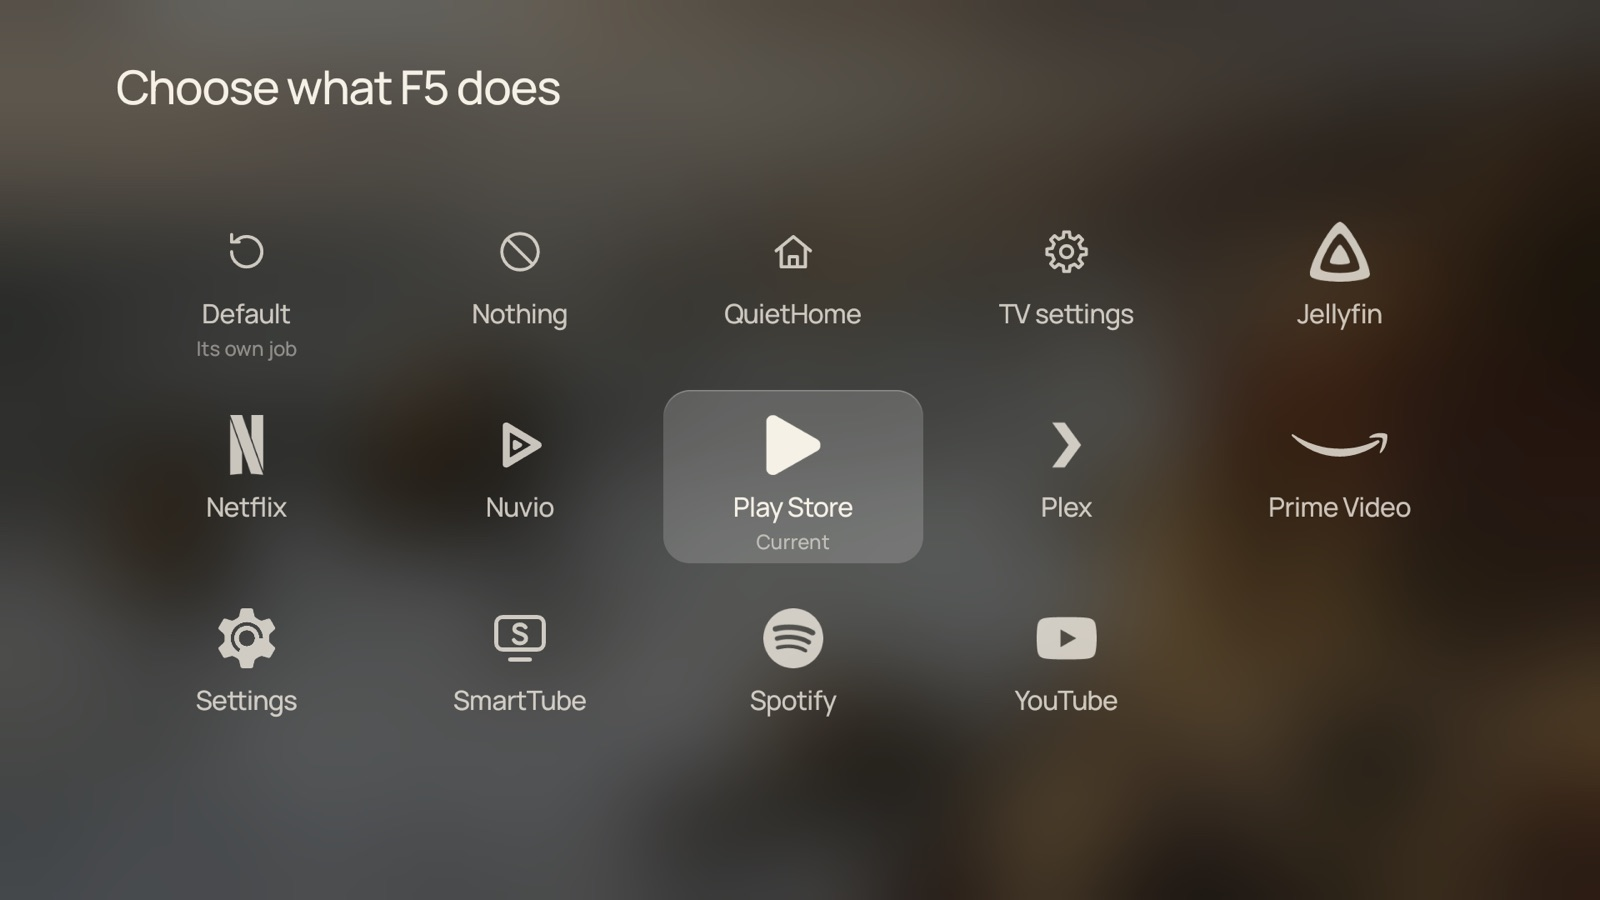
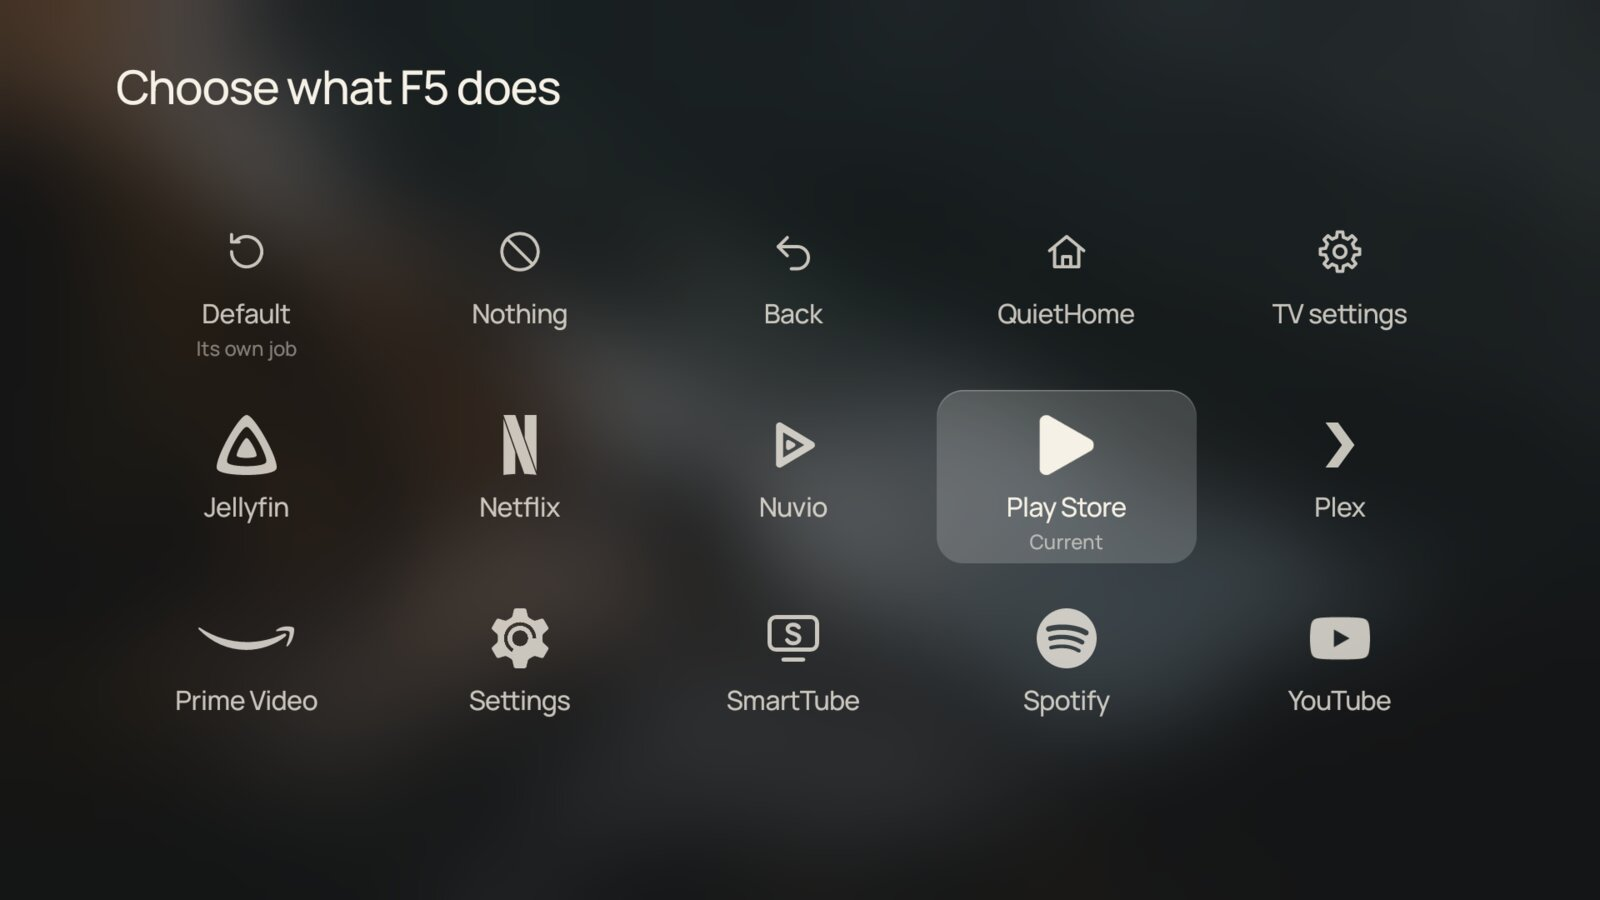
Button mapping: a button can do Back, with the system Back action of the QuietHome service

diff --git a/src/io/github/fballiano/quiethome/SettingsScreen.java b/src/io/github/fballiano/quiethome/SettingsScreen.java
@@ -221,7 +221,8 @@ final class SettingsScreen extends Screen {
                 int code = b.getKey();
                 Catalog.Entry target = stage.catalog.get(b.getValue());
                 String opens = target == null ? b.getValue() : Catalog.title(target);
-                String does = Catalog.ACTION_NONE.equals(b.getValue()) ? text(R.string.does_nothing) : text(R.string.opens, opens);
+                String does = Catalog.ACTION_NONE.equals(b.getValue()) ? text(R.string.does_nothing)
+                    : Catalog.ACTION_BACK.equals(b.getValue()) ? text(R.string.goes_back) : text(R.string.opens, opens);
                 rows.add(link(RemoteButtons.name(stage.getContext(), code), () -> does, () -> pick(code)));
             }
             Row add = action(text(R.string.add_a_button), () -> text(R.string.add_a_button_note),
@@ -272,6 +273,7 @@ final class SettingsScreen extends Screen {
             Catalog.Entry e = stage.catalog.get(id);
             stage.toast(free ? text(R.string.button_default_again, name)
                 : Catalog.ACTION_NONE.equals(id) ? text(R.string.button_does_nothing, name)
+                : Catalog.ACTION_BACK.equals(id) ? text(R.string.button_goes_back, name)
                 : text(R.string.button_opens, name, e == null ? id : Catalog.title(e)));
         }, text(R.string.choose_what_button_does, name), lead, current == null ? Catalog.ACTION_DEFAULT : current);
         stage.open(picker[0]);

diff --git a/src/io/github/fballiano/quiethome/RemoteButtons.java b/src/io/github/fballiano/quiethome/RemoteButtons.java
@@ -22,7 +22,7 @@ import java.util.Set;
 /**
  * The QuietHome service. An accessibility service that filters key events receives each key
  * before the system and the app in front, so it can give a remote button (for example a Netflix
- * key) a new job, turn it off, or make Home open QuietHome. Keys without a mapping pass through.
+ * key) a new job, make it work as Back, turn it off, or make Home open QuietHome. Keys without a mapping pass through.
  * It also receives the window-changed event, only to see when a stock launcher's home screen
  * comes back (after a wake from standby, for example) and to show QuietHome instead. It cannot
  * read the screen.
@@ -126,6 +126,10 @@ public final class RemoteButtons extends AccessibilityService {
         String target = mapping.get(code);
         if (target == null) return false;
         taken.put(code, true);
+        if (Catalog.ACTION_BACK.equals(target)) {
+            if (!performGlobalAction(GLOBAL_ACTION_BACK)) Log.w(Home.TAG, name(this, code) + " → Back: refused");
+            return true;
+        }
         if (Catalog.isHdmi(target) && catalog.get(target) == null) catalog.load();
         String problem = catalog.launch(target);
         if (problem != null) Log.w(Home.TAG, name(this, code) + " → " + target + ": " + problem);

diff --git a/src/io/github/fballiano/quiethome/Catalog.java b/src/io/github/fballiano/quiethome/Catalog.java
@@ -63,6 +63,8 @@ final class Catalog {
 
     /** Things a mapped button can do besides opening an app or an input. */
     static final String ACTION_NONE = "action.none", ACTION_HOME = "action.home", ACTION_SETTINGS = "action.settings";
+    /** The system Back, for the app in front. Only the QuietHome service can do it. */
+    static final String ACTION_BACK = "action.back";
     /** Picker tiles only, never saved: a button's own job, and the Apps on Home editor. */
     static final String ACTION_DEFAULT = "action.default", ACTION_EDIT = "action.edit";
 
@@ -84,6 +86,7 @@ final class Catalog {
     List<Entry> actions() {
         List<Entry> out = new ArrayList<>();
         out.add(new Entry(ACTION_NONE, context.getString(R.string.nothing), null, null));
+        out.add(new Entry(ACTION_BACK, context.getString(R.string.back), null, null));
         out.add(new Entry(ACTION_HOME, context.getString(R.string.app_name), null, null));
         out.add(new Entry(ACTION_SETTINGS, context.getString(R.string.tv_settings), null, null));
         return out;

diff --git a/src/io/github/fballiano/quiethome/Stage.java b/src/io/github/fballiano/quiethome/Stage.java
@@ -286,6 +286,7 @@ final class Stage extends View {
         if (Catalog.isAction(e.id)) {
             int mark = Catalog.ACTION_HOME.equals(e.id) ? R.drawable.icon_home
                 : Catalog.ACTION_SETTINGS.equals(e.id) ? R.drawable.icon_tvsettings
+                : Catalog.ACTION_BACK.equals(e.id) ? R.drawable.icon_back
                 : Catalog.ACTION_DEFAULT.equals(e.id) ? R.drawable.icon_default
                 : Catalog.ACTION_EDIT.equals(e.id) ? R.drawable.icon_edit : R.drawable.icon_none;
             float size = Math.min(w, h) * 0.8f;

diff --git a/tools/svg2vector.py b/tools/svg2vector.py
@@ -22,7 +22,7 @@ NS = "{http://www.w3.org/2000/svg}"
 ICONS = ["primevideo", "youtube", "netflix", "jellyfin", "twitch", "appletv", "stremio",
          "spotify", "hbomax", "tubi", "plex", "nuvio", "smarttube", "kodi", "vlc", "emby", "crunchyroll",
          "paramountplus", "dazn", "mubi", "steamlink", "youtubemusic", "youtubekids", "tidal", "deezer",
-         "console", "apps", "settings", "tvsettings", "home", "edit", "default"]
+         "console", "apps", "settings", "tvsettings", "home", "edit", "default", "back"]
 
 
 def num(value):

diff --git a/README.md b/README.md
@@ -40,7 +40,7 @@ QuietHome is inspired by [CleanFrame](https://github.com/nthnclrk/CleanFrame), a
 - **Updates.** Settings shows the installed version under its title. Settings → Update QuietHome looks for a newer release on GitHub. If there is one, it downloads it, checks it, and starts the installation. Android asks you to confirm. The first time, Android asks you to let QuietHome install apps. After the update, QuietHome opens again.
 - **The QuietHome service.** An accessibility service that gives QuietHome the features below. If it is off, QuietHome shows how to turn it on.
   - **Home button.** Home always opens QuietHome, also on TVs that keep their own launcher (for example Google TV). When the stock launcher comes back by itself, for example after the TV wakes from standby, QuietHome replaces it at once. Settings → Android TV → Previous launcher still lets you visit it.
-  - **Button mapping.** Press a remote button, for example the Netflix key, and choose what it does: open an app or an HDMI input, open QuietHome or TV settings, or nothing. You do not need a separate button mapper app.
+  - **Button mapping.** Press a remote button, for example the Netflix key, and choose what it does: open an app or an HDMI input, open QuietHome or TV settings, go back, or nothing. You do not need a separate button mapper app.
   - **When the TV turns on.** For a TV that only shows a box (for example an Nvidia Shield) on one HDMI port: QuietHome opens that input at boot and each time the TV wakes. It can also open an app. Home still shows QuietHome.
 - **Network only for updates.** QuietHome connects to the network only when you select Settings → Update QuietHome, and only to GitHub. It never checks in the background. It has no accounts, no analytics and no ads.
 
@@ -227,9 +227,9 @@ On most Android TV and Google TV devices, the stock launcher is a system app wit
 2. Select **Add a button**. Press the remote button, then choose what it does.
 3. To change a mapping, select the button in the list. To remove it, choose **Default**: the button then does its own job again.
 
-![Choosing what a button does: Default, Nothing, QuietHome, TV settings, or an app](docs/images/picker.jpg)
+![Choosing what a button does: Default, Nothing, Back, QuietHome, TV settings, or an app](docs/images/picker.jpg)
 
-You cannot map these keys: arrows, OK, Back, Home, volume, mute and power. They always keep their usual job.
+You cannot map these keys: arrows, OK, Back, Home, volume, mute and power. They always keep their usual job. To get a second Back button, map a different button to **Back**. It then does the same as the Back button.
 
 Android lets an accessibility service see key presses. QuietHome acts only on Home and on the buttons that you map. All other keys pass through. The service also gets one event, "window changed", which gives the package name of the app in front. QuietHome uses it only to see when the stock launcher's home screen comes back. The service cannot read the screen, and it stores and sends nothing.
 
@@ -268,7 +268,7 @@ adb shell "am broadcast -n io.github.fballiano.quiethome/.Config --es config '{
 | `startOn` | A package name or HDMI input id to open when the TV turns on; `""` shows Home |
 | `home` | A list of up to nine package names or input ids |
 | `inputNames` | Input id to name. An empty name restores the TV's name. |
-| `buttons` | Android keycode to a package name, an input id, `action.none`, `action.home` or `action.settings`. An empty value removes the mapping. |
+| `buttons` | Android keycode to a package name, an input id, `action.none`, `action.back`, `action.home` or `action.settings`. An empty value removes the mapping. |
 
 HDMI input ids look like `hdmi:HW5`. To see them, send an empty configuration (`--es config '{}'`), then run `adb logcat -d -s QuietHome | grep 'HDMI input'`.
 

diff --git a/THIRD_PARTY_NOTICES.md b/THIRD_PARTY_NOTICES.md
@@ -43,7 +43,7 @@ The SVG sources are in `tools/icons/`. `tools/icons/SOURCES.md` lists the source
 | Material | Terms |
 | --- | --- |
 | [Simple Icons](https://simpleicons.org) marks (Prime Video, YouTube, Netflix, Jellyfin, Twitch, Apple TV, Stremio, Spotify, HBO Max, Tubi, Kodi, VLC, Emby, Crunchyroll, Paramount+, DAZN, MUBI, Steam, YouTube Music, YouTube Kids, Tidal, Deezer) | CC0. See `tools/icons/SIMPLE-ICONS-LICENSE.txt`. |
-| Apps, settings, TV settings, home, edit, default, game console and "nothing" icons, the app icon and the banner | Drawn for QuietHome, under the project's licence. |
+| Apps, settings, TV settings, home, edit, default, back, game console and "nothing" icons, the app icon and the banner | Drawn for QuietHome, under the project's licence. |
 | Nuvio, SmartTube and Plex marks | Monochrome marks drawn for QuietHome after the apps' logos. The names and logos belong to their owners. |
 | Icons of installed apps | Read from the TV at runtime and turned into one-colour marks on the TV. They are not part of QuietHome. Disney+ and Hulu always use their own app icon, because Disney does not allow its marks in projects like this. |
 

diff --git a/tools/icons/SOURCES.md b/tools/icons/SOURCES.md
@@ -3,7 +3,7 @@
 | File | Source | Terms |
 | --- | --- | --- |
 | `primevideo`, `youtube`, `netflix`, `jellyfin`, `twitch`, `appletv`, `stremio`, `spotify`, `hbomax`, `tubi`, `kodi`, `emby`, `crunchyroll`, `paramountplus`, `dazn`, `mubi`, `youtubemusic`, `youtubekids`, `tidal`, `deezer`, `vlc` (`vlcmediaplayer`), `steamlink` (`steam`) | [Simple Icons](https://simpleicons.org), some with the viewBox trimmed to the mark | CC0 (`SIMPLE-ICONS-LICENSE.txt`) |
-| `apps`, `settings`, `tvsettings`, `home`, `edit`, `default`, `console` | Drawn for QuietHome | As the project |
+| `apps`, `settings`, `tvsettings`, `home`, `edit`, `default`, `back`, `console` | Drawn for QuietHome | As the project |
 | `nuvio`, `smarttube`, `plex` | Monochrome marks drawn for QuietHome after the Nuvio, SmartTube, and Plex logos | As the project; the logos and names belong to their owners |
 
 Brand marks identify services. Their owners keep their trademark rights.

diff --git a/.claude/skills/install-quiethome/SKILL.md b/.claude/skills/install-quiethome/SKILL.md
@@ -140,7 +140,7 @@ Wrap the whole remote command in double quotes. Without them the TV's shell expa
 | `startOn` | A package name or HDMI input id to open when the TV turns on; `""` shows Home |
 | `home` | Up to nine package names or input ids, in order |
 | `inputNames` | Input id to a name; an empty name restores the TV's name |
-| `buttons` | Android keycode to a package, an input id, `action.none`, `action.home` or `action.settings`; an empty value removes it |
+| `buttons` | Android keycode to a package, an input id, `action.none`, `action.back`, `action.home` or `action.settings`; an empty value removes it |
 
 ## Safety
 
